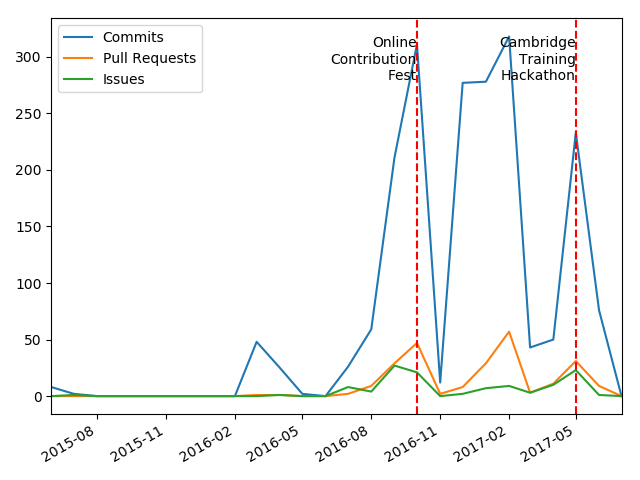
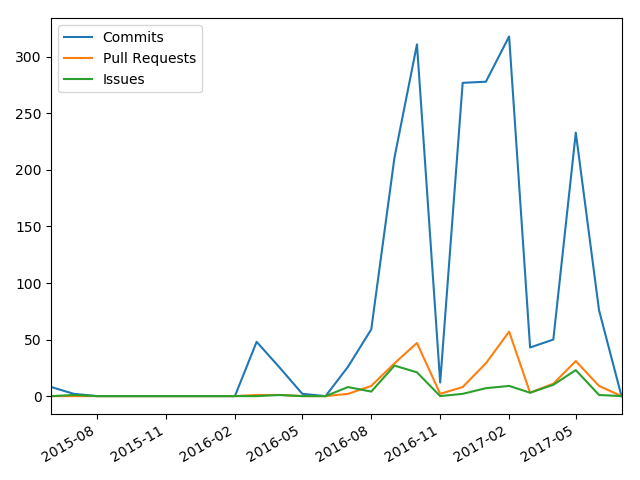
Split the contributions graph into 2

Changed region(s): [[0.7812, 0.0625, 0.9062, 0.1875], [0.5312, 0.0625, 0.6562, 0.1875]]

diff --git a/src/extract_github_info.py b/src/extract_github_info.py
@@ -42,6 +42,7 @@ rule all:
     input:
         contributors="images/contributors.png",
         contribution_graph = "images/contributions.png",
+        contribution_graph_with_hackathon = "images/contributions_with_hackathon.png",
         new_contributor_graph = "images/new_contributors.png"
 
 
@@ -183,7 +184,8 @@ rule plot_contribution_number:
     input:
         contribution_tab = "data/contributions.csv"
     output:
-        contribution_graph = "images/contributions.png"
+        contribution_graph = "images/contributions.png",
+        contribution_graph_with_hackathon = "images/contributions_with_hackathon.png"
     run:
         # load the contribution number
         df = pd.read_csv(str(input.contribution_tab), index_col = 0)
@@ -194,6 +196,11 @@ rule plot_contribution_number:
             "pull_request": "Pull Requests",
             "issue": "Issues"})
         # plot the number of contributions
+        fig = plt.plot()
+        df.plot(x_compat=True)
+        plt.tight_layout()
+        plt.savefig(str(output.contribution_graph))
+        # plot the number of contributions with hackathon
         fig = plt.plot()
         df.plot(x_compat=True)
         # add vertical line for the contribution fests
@@ -218,9 +225,9 @@ rule plot_contribution_number:
             "Cambridge\nTraining\nHackathon",
             horizontalalignment='right',
             verticalalignment='top')
-        # fit the plot to the figure
+        # export the figure
         plt.tight_layout()
-        plt.savefig(str(output.contribution_graph))
+        plt.savefig(str(output.contribution_graph_with_hackathon))
 
 
 rule extract_contributor_number:

diff --git a/slides.md b/slides.md
@@ -155,7 +155,13 @@ Note: ...but also fitting face-to-face workshops
 
 ![Number of contributions (commits, PR and issues) over the months](images/contributions.png)
 
-With 2 successful hackathons!
+----
+
+### Numerous contributions
+
+![Number of contributions (commits, PR and issues) over the months with hackathons](images/contributions_with_hackathon.png)
+
+And 2 successful hackathons!
 
 ----
 
